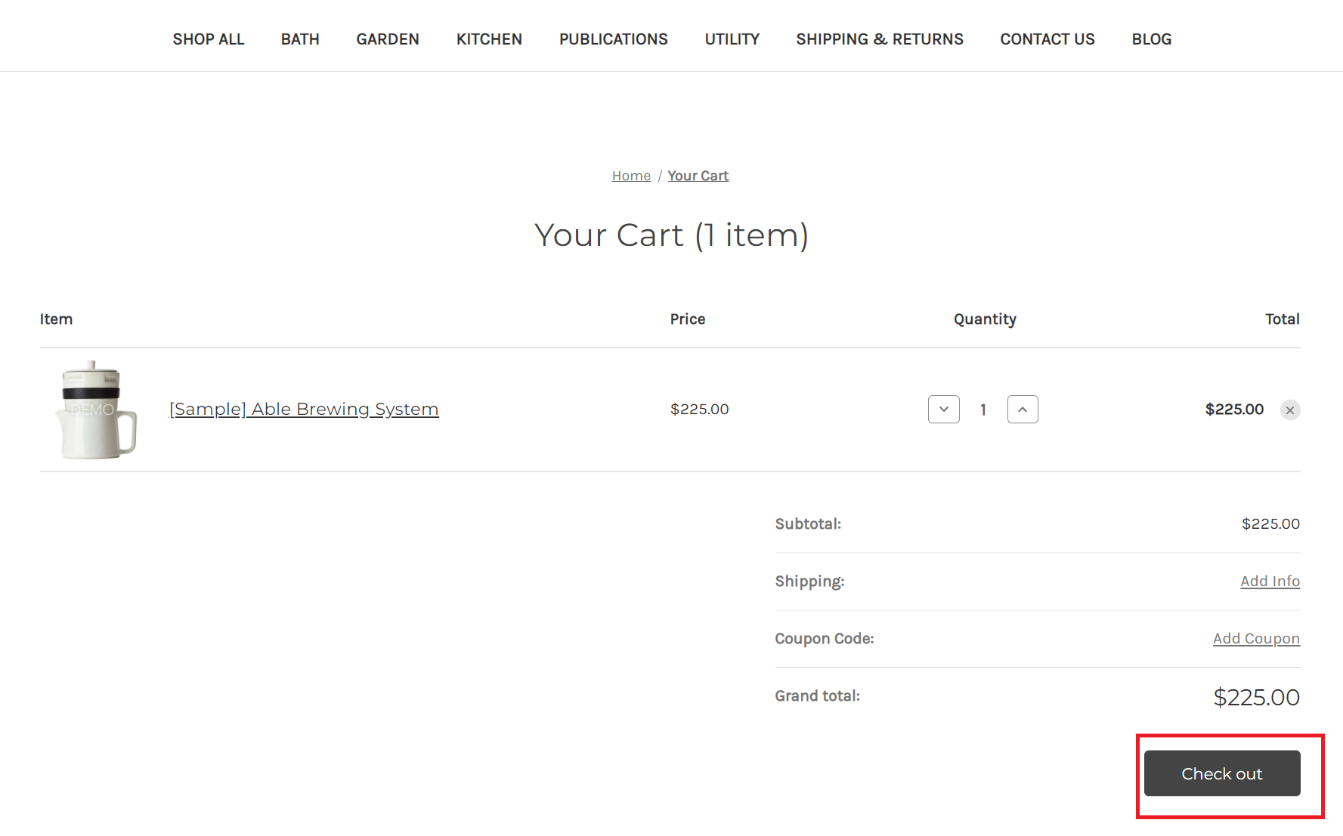
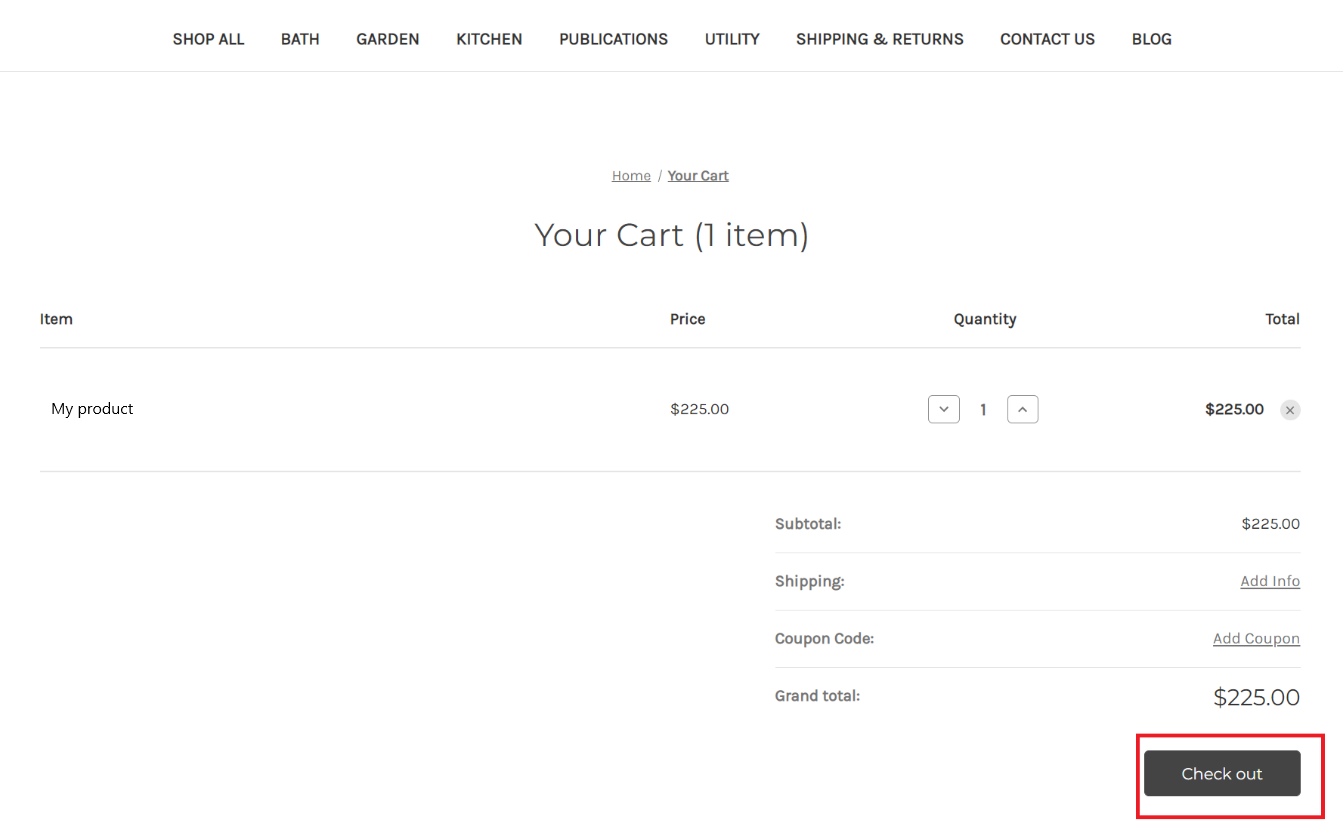
removed product references and images

Changed region(s): [[0.1221, 0.4665, 0.3358, 0.4976], [0.0305, 0.4354, 0.1221, 0.5598]]

diff --git a/learn-bizapps-pr/industry-solutions/intelligent-order-management/includes/test-flow-orders.md b/learn-bizapps-pr/industry-solutions/intelligent-order-management/includes/test-flow-orders.md
@@ -76,12 +76,9 @@ You can either create an order on BigCommerce store portal or their e-Commerce p
     > [!div class="mx-imgBorder"]
     > [![Screenshot of the Your account has been created message box.](../media/account-created.png)](../media/account-created.png#lightbox)
 
-1. Select **Able Brewing System** in the homepage because this is the only product mapped in Dynamics 365 IOM as part of Exercise 2 - Task 2 - Step 1. Once the product has been selected, select **Add to Cart**.
+1. Select the product in the homepage that we mapped in Dynamics 365 IOM as part of Exercise 2 - Task 2 - Step 1. Once the product has been selected, select **Add to Cart**.
 
-    > [!div class="mx-imgBorder"]
-    > [![Screenshot of the Able Brewing System product selected.](../media/able.png)](../media/able.png#lightbox)
-
-1. Select **Checkout** button.
+1. Select the **Checkout** button.
 
     > [!div class="mx-imgBorder"]
     > [![Screenshot of the cart with one item and the check out button highlighted.](../media/check-out.png)](../media/check-out.png#lightbox)

diff --git a/learn-bizapps-pr/industry-solutions/intelligent-order-management/includes/create-orchestration-flow.md b/learn-bizapps-pr/industry-solutions/intelligent-order-management/includes/create-orchestration-flow.md
@@ -143,12 +143,9 @@ In this task, you'll test the orchestration flow created in the earlier task by 
     > [!div class="mx-imgBorder"]
     > ![Screenshot of the Coming Soon dialog with the Preview code filled and I'm not a robot selected.](../media/preview.png)
 
-1. Select **Able Brewing System** in the homepage and then select **Add to Cart**.
+1. Select a product in the homepage and then select **Add to Cart**.
 
-    > [!div class="mx-imgBorder"]
-    > [![Screenshot of the Able brewing selected again.](../media/able.png)](../media/able.png#lightbox)
-
-1. Select **Checkout** button.
+1. Select the **Checkout** button.
 
     > [!div class="mx-imgBorder"]
     > [![Screenshot of the cart with the check out button highlighted.](../media/check-out.png)](../media/check-out.png#lightbox)
